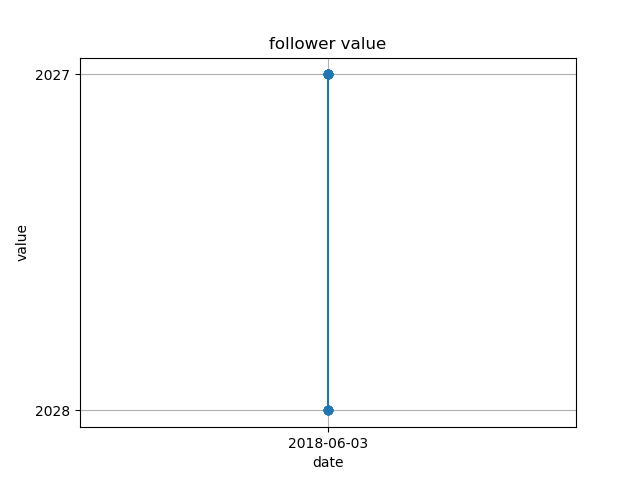
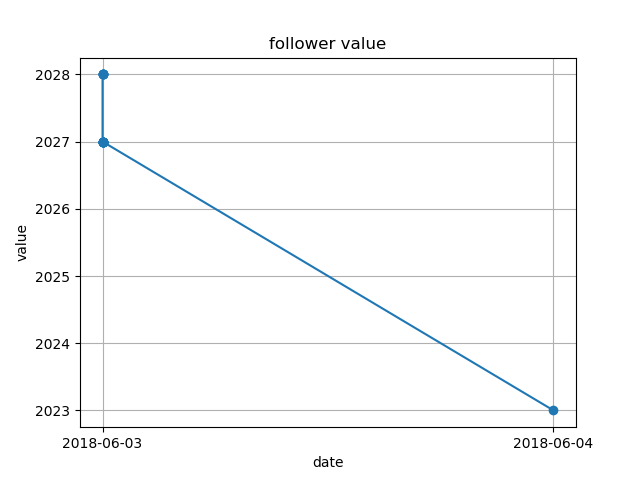
change follower count value str to int

diff --git a/2018-06-04_amg_Impressions.html b/2018-06-04_amg_Impressions.html
@@ -1,0 +1,8 @@
+
+        <!DOCTYPE html>
+        <html>
+        <head><title>result_2018-06-04</title></head>
+        <body>
+        <img src='./amg_Impressions_account_value.png'>
+        </body></html>
+        

diff --git a/2018-06-03_yaritaiji0324.html b/2018-06-03_yaritaiji0324.html
@@ -1,0 +1,8 @@
+
+        <!DOCTYPE html>
+        <html>
+        <head><title>result_2018-06-03</title></head>
+        <body>
+        <img src='./yaritaiji0324_account_value.png'>
+        </body></html>
+        

diff --git a/2018-06-04_yaritaiji0324.html b/2018-06-04_yaritaiji0324.html
@@ -1,0 +1,8 @@
+
+        <!DOCTYPE html>
+        <html>
+        <head><title>result_2018-06-04</title></head>
+        <body>
+        <img src='./yaritaiji0324_account_value.png'>
+        </body></html>
+        

diff --git a/count_intersection.py b/count_intersection.py
@@ -41,7 +41,7 @@ class Followers_data:
 
         #Make followers ID data
         for all_followers in args[1:len(args)]:
-            print("!!!start get followers data of account " + str(cnt) + " !!!")
+            print("!!!start get followers data of %s !!!"%all_followers)
             followers_ids = tweepy.Cursor(api.followers_ids, id = args[cnt], cursor = -1).items()
             set_ids = set(followers_ids)
             print(args[cnt] + "'s follwer is " + str(len(set_ids)) + " !!!!!")
@@ -103,7 +103,7 @@ class Followers_data:
         remove_int = 10 + len(args[1])
         for search_follower_cnt in args1_list:
             follower_cnt = re.sub(remove_str, '', search_follower_cnt)
-            follower_list.append(follower_cnt)
+            follower_list.append(int(follower_cnt))
 
         #make graph
         plt.plot(date_list, follower_list, marker="o")
